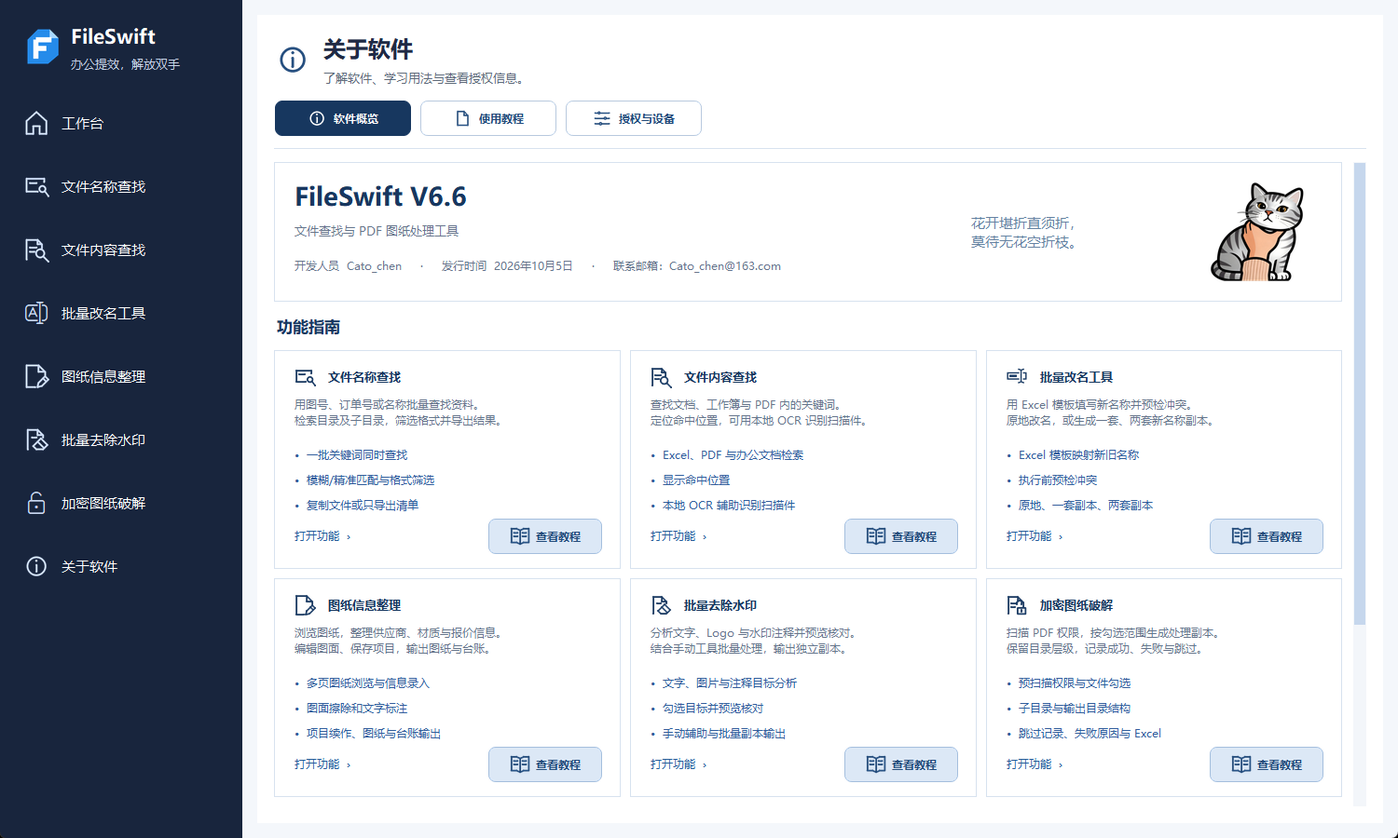
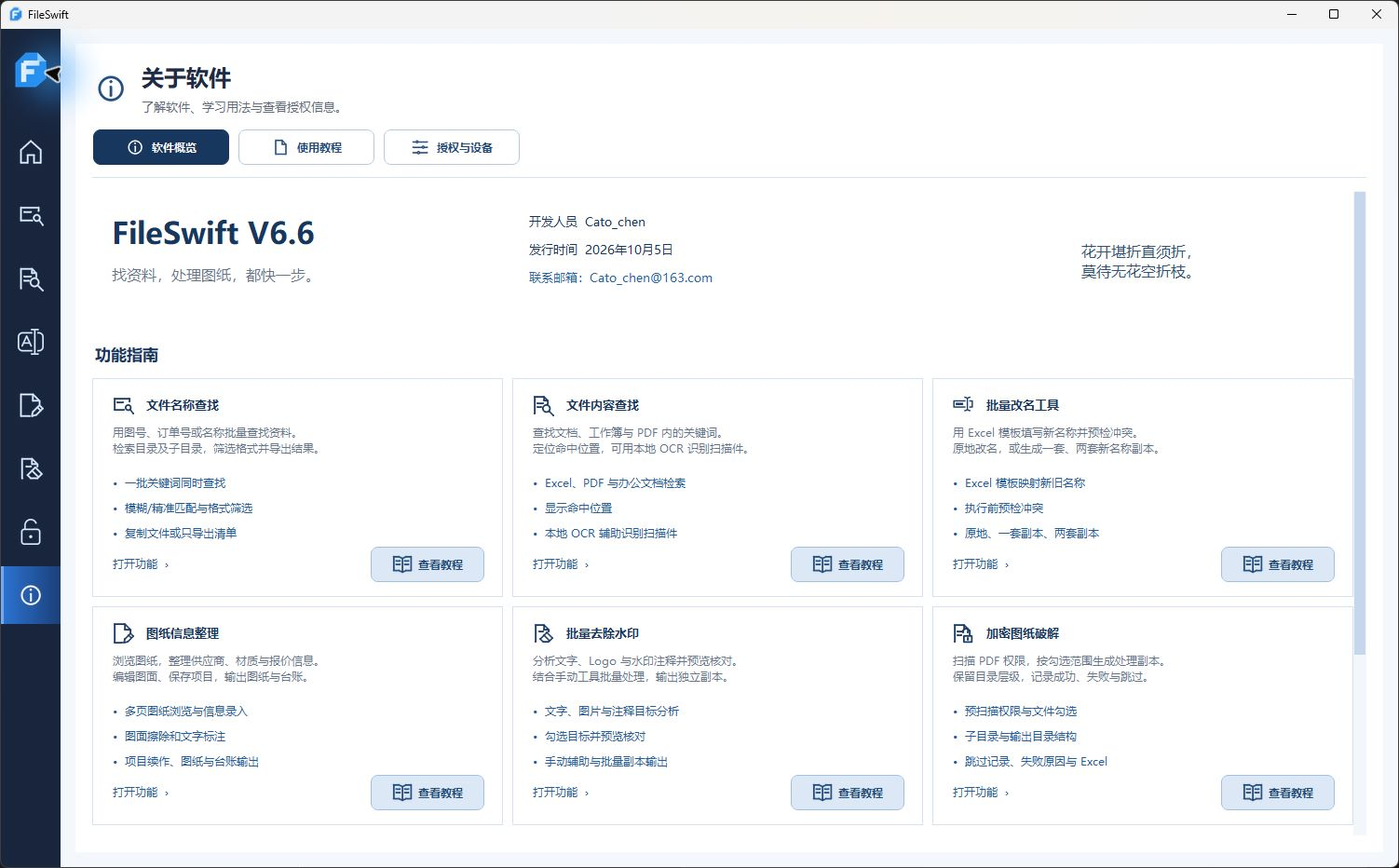
更新真实功能介绍与六模块实拍，统一下载入口

diff --git a/index.html b/index.html
@@ -11,36 +11,34 @@
 <main>
 <section class="hero container">
   <div class="hero-copy"><p class="eyebrow"><span class="mini-line"></span> 为工程图纸与日常资料而生</p><h1>找资料，<br>处理图纸。<br><span>都快一步。</span></h1><p class="hero-description">把反复查找、逐个改名和图纸整理，<br class="desktop-break">交给一个顺手的 Windows 桌面工具。</p><div class="hero-actions"><a class="button primary" href="#download"><span data-icon="download"></span><span data-download-cta>获取 FileSwift</span></a><a class="button secondary" href="#benefits">了解核心能力</a></div><p class="hero-note">Windows 桌面应用 · 文件在本机处理</p></div>
-  <div class="hero-visual"><div class="visual-caption"><span class="app-mark"><img src="assets/brand.png" width="24" height="24" alt=""> FileSwift 工作台</span><span>6 个功能，一处完成</span></div><a class="shot-link" href="assets/overview.png" data-image-preview aria-label="放大查看 FileSwift 工作台"><img class="product-shot" src="assets/overview.png" width="1500" height="900" alt="FileSwift 实际软件界面，包含文件查找、改名和图纸处理六项功能" fetchpriority="high"></a><div class="visual-footer"><span>从散落的资料，到有序的工作。</span><span class="shot-hint">点击截图放大查看 ↗</span></div></div>
+  <div class="hero-visual"><div class="visual-caption"><span class="app-mark"><img src="assets/brand.png" width="24" height="24" alt=""> FileSwift 软件概览</span><span>6 个功能，一处完成</span></div><a class="shot-link" href="assets/overview.png" data-image-preview aria-label="放大查看 FileSwift 软件概览"><img class="product-shot" src="assets/overview.png" width="1502" height="932" alt="FileSwift 实际软件界面，包含文件查找、改名和图纸处理六项功能" fetchpriority="high"></a><div class="visual-footer"><span>从散落的资料，到有序的工作。</span><span class="shot-hint">点击截图放大查看 ↗</span></div></div>
 <div class="use-cases"><p>为这些日常工作，少一点重复。</p><div><span>工程图纸</span><span>订单与料号</span><span>项目资料</span><span>办公文档</span></div></div>
 </section>
-<section class="benefits container page-section" id="benefits"><div class="section-heading"><p class="eyebrow">01 / 核心能力</p><h2>资料找得快，图纸处理得顺。</h2><p>从找到文件，到整理结果。<br>常用步骤，一气呵成。</p></div>
-  <div class="showcase"><div class="showcase-content"><div class="tabs" role="tablist" aria-label="核心能力"><button role="tab" id="tab-find" aria-selected="true" aria-controls="panel-find" tabindex="0">01 / 快速找资料</button><button role="tab" id="tab-process" aria-selected="false" aria-controls="panel-process" tabindex="-1">02 / 批量处理图纸</button></div>
-  <div id="panel-find" class="benefit-panel" role="tabpanel" aria-labelledby="tab-find"><h3>记得一个关键词，<br>就能开始找。</h3><p>用名称批量查资料，或直接检索文档内容。关键词、子目录和格式筛选，让查找更有方向。</p><ul class="check-list"><li>多个关键词一起查，减少重复操作</li><li>支持 Excel、PDF 与办公文档内容检索</li><li>本地 OCR 辅助识别扫描件</li><li>复制匹配文件，或导出 Excel 结果清单</li></ul></div>
-  <div id="panel-process" class="benefit-panel" role="tabpanel" aria-labelledby="tab-process" hidden><h3>把重复的图纸操作，<br>集中做完。</h3><p>改名称、整理信息、处理水印与 PDF 权限，各有清晰的工作界面。处理前先检查，处理后有结果可核对。</p><ul class="check-list"><li>Excel 名称映射，批量改名并预检冲突</li><li>浏览图纸，录入材质、供应商与报价信息</li><li>分析文字、图片和注释水印，预览核对</li><li>扫描 PDF 权限，勾选文件生成处理副本</li></ul></div>
-  </div><div class="detail-shot"><div class="detail-title"><span id="shot-label">文件名称查找</span><span>实际软件界面</span></div><div class="detail-viewport" tabindex="0" role="region" aria-label="软件截图，可滚动查看"><a class="shot-link" id="detail-preview" href="assets/filename.png" data-image-preview aria-label="放大查看文件名称查找界面"><img id="detail-image" src="assets/filename.png" width="940" height="950" alt="文件名称查找界面，支持关键词与格式筛选" loading="lazy"></a></div><p class="detail-hint">可滚动浏览，点击截图放大查看 <span id="shot-status" role="status" aria-live="polite"></span></p></div></div>
+<section class="benefits container page-section" id="benefits"><div class="section-heading"><p class="eyebrow">01 / 核心能力</p><h2>资料找得快，图纸处理得顺。</h2><p>从找到文件，到整理结果。<br>六个模块，按你的任务切换。</p></div>
+  <div class="gallery-tabs tabs" role="tablist" aria-label="查看六个功能模块"><button role="tab" id="tab-find" aria-selected="true" aria-controls="panel-find" tabindex="0">名称查找</button><button role="tab" id="tab-content" aria-selected="false" aria-controls="panel-content" tabindex="-1">内容查找</button><button role="tab" id="tab-rename" aria-selected="false" aria-controls="panel-rename" tabindex="-1">批量改名</button><button role="tab" id="tab-drawing" aria-selected="false" aria-controls="panel-drawing" tabindex="-1">图纸整理</button><button role="tab" id="tab-watermark" aria-selected="false" aria-controls="panel-watermark" tabindex="-1">水印处理</button><button role="tab" id="tab-pdf" aria-selected="false" aria-controls="panel-pdf" tabindex="-1">PDF 权限</button></div>
+  <div class="showcase"><div class="showcase-content"><div id="panel-find" class="benefit-panel" role="tabpanel" aria-labelledby="tab-find"><h3>按清单找文件，<br>不必一个个搜。</h3><p>把图号、料号或关键词一次贴入。按名称匹配整个目录，再把找到的资料和结果清单带走。</p><ul class="check-list"><li>模糊或精准匹配，可筛选文件格式</li><li>递归查找子目录，统计每个关键词的结果</li><li>复制匹配文件，或仅导出 Excel 清单</li></ul></div><div id="panel-content" class="benefit-panel" role="tabpanel" aria-labelledby="tab-content" hidden><h3>名字想不起来，<br>就从内容里找。</h3><p>在 Excel、PDF 和办公文档中查关键词。结果记录命中位置，回到原文核对更方便。</p><ul class="check-list"><li>记录工作表、单元格或 PDF 页码</li><li>本地 OCR 辅助检索扫描件，需配置组件</li><li>导出查找结果，可同时复制命中文件</li></ul></div><div id="panel-rename" class="benefit-panel" role="tabpanel" aria-labelledby="tab-rename" hidden><h3>名称按表对应，<br>改之前先检查。</h3><p>用 Excel 管理原名称与新名称的对应关系。执行前检查命名冲突，按工作需要选择输出方式。</p><ul class="check-list"><li>导出命名模板，集中填写新名称</li><li>原地改名，或保留原件生成一套、两套副本</li><li>预检结果在界面中逐项核对</li></ul></div><div id="panel-drawing" class="benefit-panel" role="tabpanel" aria-labelledby="tab-drawing" hidden><h3>看图、填信息，<br>再统一输出。</h3><p>逐张浏览 PDF 图纸，整理供应商、材质与报价。新增批量插入文本，让一批图纸在同一位置填入各自的内容。</p><ul class="check-list"><li>粘贴一列或导入 Excel，先检查文字能否放下</li><li>文字标注、擦除与旋转，配合图纸信息录入</li><li>保存项目继续整理，输出 PDF 和 Excel 台账</li></ul></div><div id="panel-watermark" class="benefit-panel" role="tabpanel" aria-labelledby="tab-watermark" hidden><h3>先确认目标，<br>再处理这一批。</h3><p>分析 PDF 中的文字、图片与注释等候选目标。结合预览和手动辅助，确认需要处理的内容。</p><ul class="check-list"><li>查看当前图纸及全局候选目标</li><li>支持区域与文字辅助，预览核对后再输出</li><li>生成独立副本；扫描图中重叠线条无法还原</li></ul></div><div id="panel-pdf" class="benefit-panel" role="tabpanel" aria-labelledby="tab-pdf" hidden><h3>先看限制情况，<br>再选择要处理的文件。</h3><p>扫描可打开 PDF 的权限状态，区分受限、无需处理与检测失败的文件，再勾选处理。</p><ul class="check-list"><li>包含子目录，可保留原目录层级</li><li>跳过已处理文件，记录每项处理结果</li><li>输出独立副本，不破解未知的打开密码</li></ul></div><div class="gallery-controls"><button id="shot-prev" type="button" aria-label="上一个功能">←</button><span id="shot-count" aria-live="polite">01 / 06</span><button id="shot-next" type="button" aria-label="下一个功能">→</button><span class="gallery-tip">按需切换，慢慢看</span></div></div><div class="detail-shot"><div class="detail-title"><span id="shot-label">文件名称查找</span><span>实际软件界面</span></div><div class="detail-viewport" role="region" aria-label="软件实拍截图"><a class="shot-link" id="detail-preview" href="assets/filename.png" data-image-preview aria-label="放大查看文件名称查找界面"><img id="detail-image" src="assets/filename.png" width="1502" height="932" alt="收起左侧栏的文件名称查找界面" loading="lazy"></a></div><p class="detail-hint">点击截图，放大查看细节 <span id="shot-status" role="status" aria-live="polite"></span></p></div></div>
 </section>
 <section class="features-wrap page-section" id="features"><div class="container"><div class="section-heading compact"><p class="eyebrow">02 / 功能一览</p><h2>六件事，一套工作方式。</h2></div><div class="feature-grid">
-<article class="feature"><div class="feature-top"><span class="feature-icon" data-icon="search"></span><span class="feature-number">01</span></div><h3>文件名称查找</h3><p>按图号、料号与关键词批量查找，支持模糊匹配、格式筛选及结果导出。</p><span class="feature-tag">批量关键词 · 文件复制 · Excel 清单</span></article>
+<article class="feature"><div class="feature-top"><span class="feature-icon" data-icon="search"></span><span class="feature-number">01</span></div><h3>文件名称查找</h3><p>一次输入多个图号或料号，查找子目录、筛选格式，并统计每个关键词的结果。</p><span class="feature-tag">批量关键词 · 文件复制 · Excel 清单</span></article>
 <article class="feature"><div class="feature-top"><span class="feature-icon" data-icon="content"></span><span class="feature-number">02</span></div><h3>文件内容查找</h3><p>检索文档关键词并定位命中位置，用本地 OCR 辅助识别扫描件。</p><span class="feature-tag">内容检索 · 命中定位 · 本地 OCR</span></article>
 <article class="feature"><div class="feature-top"><span class="feature-icon" data-icon="rename"></span><span class="feature-number">03</span></div><h3>批量改名工具</h3><p>Excel 映射名称并预检冲突，支持原地改名或一套、两套副本。</p><span class="feature-tag">Excel 映射 · 冲突预检 · 副本输出</span></article>
-<article class="feature"><div class="feature-top"><span class="feature-icon" data-icon="drawing"></span><span class="feature-number">04</span></div><h3>图纸信息整理</h3><p>浏览、标注图纸，整理供应商、材质与报价，保存项目并导出台账。</p><span class="feature-tag">图纸浏览 · 信息录入 · 项目保存</span></article>
-<article class="feature"><div class="feature-top"><span class="feature-icon" data-icon="watermark"></span><span class="feature-number">05</span></div><h3>批量去除水印</h3><p>分析文字、Logo 与注释水印，预览核对后批量输出独立副本。</p><span class="feature-tag">目标分析 · 预览核对 · 手动辅助</span></article>
-<article class="feature"><div class="feature-top"><span class="feature-icon" data-icon="unlock"></span><span class="feature-number">06</span></div><h3>加密图纸处理</h3><p>扫描 PDF 权限并勾选处理，保留目录结构，记录处理结果。</p><span class="feature-tag">权限扫描 · 勾选处理 · 结果记录</span></article>
-</div><div class="workflow-strip"><span><b>01</b>选择文件</span><span><b>02</b>检查选项</span><span><b>03</b>处理并核对结果</span><p>清晰的步骤，顺手的操作。</p></div></div></section>
+<article class="feature"><div class="feature-top"><span class="feature-icon" data-icon="drawing"></span><span class="feature-number">04</span></div><h3>图纸信息整理</h3><p>浏览、标注并整理供应商、材质与报价；按表给整批图纸插入不同文字，保存项目续做。</p><span class="feature-tag">批量文本 · 信息台账 · 项目续做</span></article>
+<article class="feature"><div class="feature-top"><span class="feature-icon" data-icon="watermark"></span><span class="feature-number">05</span></div><h3>批量去除水印</h3><p>分析文字、图片与注释等候选目标，结合手动辅助，预览确认后输出副本。</p><span class="feature-tag">目标分析 · 预览核对 · 手动辅助</span></article>
+<article class="feature"><div class="feature-top"><span class="feature-icon" data-icon="unlock"></span><span class="feature-number">06</span></div><h3>PDF 权限处理</h3><p>扫描可打开 PDF 的权限限制，勾选处理、保留目录结构，并记录成功或失败原因。</p><span class="feature-tag">权限扫描 · 勾选处理 · 结果记录</span></article>
+</div><div class="workflow-strip"><span><b>01</b>拖入文件或压缩包</span><span><b>02</b>查看推荐功能</span><span><b>03</b>检查并输出</span><p>桌面悬浮入口随手调用 · 历史记录方便接着做</p></div></div></section>
 <section class="download-section page-section" id="download"><div class="container">
 <div class="section-heading compact"><p class="eyebrow" id="download-eyebrow">03 / 获取软件</p><h2>少一点重复，多一点从容。</h2><p>把 FileSwift 放进你的工作流程。</p></div>
 <div class="download-layout"><div class="download-card">
 <div class="download-brand"><img src="assets/brand.png" width="62" height="62" alt="FileSwift 标志"><div><h3>FileSwift</h3><p>V6.6 · Windows 桌面版</p></div></div>
 <p class="download-description">找文件、改名称、整理图纸。<br>让日常资料处理，变得更顺手。</p>
-<button class="button light download-button" id="download-button" type="button"><span data-icon="download"></span><span id="download-label">联系开发者获取软件</span></button>
+<a class="button light download-button" id="download-button" href="#download"><span data-icon="download"></span><span id="download-label">联系开发者获取软件</span></a>
 <p class="download-meta" id="download-meta">在线下载暂未开放 · 可联系开发者咨询</p>
-<div class="share-code" id="share-code" hidden><span>网盘提取码：<strong id="share-code-value"></strong></span><button id="copy-share-code" type="button">复制提取码</button><span id="share-code-status" role="status" aria-live="polite"></span></div>
 <div class="download-contact"><span>联系开发者</span><button class="email-copy" id="copy-email" type="button" aria-label="复制联系邮箱">Cato_chen@163.com <span>复制</span></button><p id="copy-status" role="status" aria-live="polite"></p></div></div>
 <div class="download-faq"><h3>你可能关心</h3><div class="questions">
 <details open><summary>适合哪些工作？</summary><p>工程图纸、订单料号、项目目录与办公资料。按清单批量找文件、改名称、整理 PDF，都可以在一个工具中完成。</p></details>
 <details><summary>文件需要上传吗？</summary><p>文件查找、图纸处理和本地 OCR 在电脑上完成。扫描件检索前，请确认本地 OCR 组件可用。</p></details>
 <details><summary>会修改原文件吗？</summary><p>原地改名会修改文件名；副本输出可保留原文件。PDF 权限处理输出独立副本。执行前可在界面确认输出方式。</p></details>
+<details><summary>PDF 和扫描件都能处理吗？</summary><p>PDF 权限处理针对可打开的文件，不破解未知打开密码。水印效果取决于文件结构，扫描图中与水印重叠的原始线条无法还原。扫描件内容查找需配置本地 OCR。</p></details>
 <details><summary>如何联系开发者？</summary><p>软件使用、授权与反馈，可发送邮件至 <a href="mailto:Cato_chen@163.com">Cato_chen@163.com</a>。</p></details>
 </div></div></div>
 <footer><a class="brand" href="#"><img src="assets/brand.png" width="28" height="28" alt=""><span>FileSwift</span></a><p>办公提效，解放双手。</p><span>由 Cato_chen 开发</span></footer>
@@ -48,4 +46,3 @@
 <dialog id="download-dialog" aria-labelledby="download-dialog-title"><button type="button" class="dialog-close" aria-label="关闭下载提示">×</button><img src="assets/brand.png" width="52" height="52" alt=""><h2 id="download-dialog-title">下载暂未开放</h2><p>下载开放后，可以在这里直接获取 Windows 版 FileSwift。</p><a class="button primary" href="mailto:Cato_chen@163.com?subject=FileSwift%20%E8%BD%AF%E4%BB%B6%E5%92%A8%E8%AF%A2">联系开发者</a><button type="button" class="dialog-dismiss">知道了</button></dialog>
 <dialog id="image-dialog" aria-labelledby="image-dialog-title"><div class="image-toolbar"><h2 id="image-dialog-title">软件界面</h2><button id="image-zoom" type="button" aria-pressed="false">原始尺寸</button><a id="image-original" href="assets/overview.png" target="_blank" rel="noopener">打开原图 ↗</a><button type="button" class="image-close" aria-label="关闭图片预览">×</button></div><div class="image-scroll"><img id="preview-image" alt=""></div><p class="image-help">原始尺寸模式可滚动查看细节 · 按 Esc 关闭</p></dialog>
 <script src="download-config.js"></script><script src="app.js"></script></body></html>
-

diff --git a/app.js b/app.js
@@ -7,8 +7,12 @@ function play(element,className){
   element.classList.add(className);
 }
 const screenshots=[
-  {src:'assets/filename.png',width:940,height:950,label:'文件名称查找',alt:'文件名称查找界面，支持关键词与格式筛选'},
-  {src:'assets/pdf.png',width:1220,height:795,label:'加密图纸处理',alt:'PDF 权限处理界面，显示文件统计与待处理文件清单'}
+  {src:'assets/filename.png',width:1502,height:932,label:'文件名称查找',alt:'收起左侧栏的文件名称查找实际界面'},
+  {src:'assets/content.png',width:1502,height:932,label:'文件内容查找',alt:'收起左侧栏的文件内容查找实际界面'},
+  {src:'assets/rename.png',width:1502,height:932,label:'批量改名工具',alt:'收起左侧栏的批量改名工具实际界面'},
+  {src:'assets/drawing.png',width:1502,height:932,label:'图纸信息整理',alt:'收起左侧栏的图纸信息整理实际界面，使用演示图纸'},
+  {src:'assets/watermark.png',width:1502,height:932,label:'批量去除水印',alt:'收起左侧栏的批量去除水印实际界面，使用演示图纸'},
+  {src:'assets/pdf.png',width:1502,height:932,label:'PDF 权限处理',alt:'收起左侧栏的PDF 权限处理实际界面'}
 ];
 const screenshotLoads=new Map();
 let selectedTab=0;
@@ -21,8 +25,9 @@ function loadScreenshot(index){
   return screenshotLoads.get(index);
 }
 async function selectTab(index){
-  if(index===selectedTab)return;
+  if(index===selectedTab&&!document.getElementById('shot-status').textContent)return;
   selectedTab=index;
+  document.getElementById('shot-count').textContent=`${String(index+1).padStart(2,'0')} / 06`;
   tabs.forEach((tab,i)=>{tab.setAttribute('aria-selected',String(i===index));tab.tabIndex=i===index?0:-1;document.getElementById(tab.getAttribute('aria-controls')).hidden=i!==index;});
   play(document.getElementById(tabs[index].getAttribute('aria-controls')),'tab-enter');
   const image=document.getElementById('detail-image');
@@ -46,6 +51,9 @@ async function selectTab(index){
 tabs.forEach((tab,index)=>{tab.addEventListener('click',()=>selectTab(index));tab.addEventListener('keydown',event=>{if(['ArrowLeft','ArrowRight','Home','End'].includes(event.key)){event.preventDefault();const next=event.key==='Home'?0:event.key==='End'?tabs.length-1:(index+(event.key==='ArrowRight'?1:-1)+tabs.length)%tabs.length;selectTab(next);tabs[next].focus();}});});
 tabs.forEach((tab,index)=>{['pointerenter','focus'].forEach(type=>tab.addEventListener(type,()=>{loadScreenshot(index).catch(()=>{});}));});
 
+document.getElementById('shot-prev').addEventListener('click',()=>selectTab((selectedTab+tabs.length-1)%tabs.length));
+document.getElementById('shot-next').addEventListener('click',()=>selectTab((selectedTab+1)%tabs.length));
+
 const imageDialog=document.getElementById('image-dialog');
 const previewImage=document.getElementById('preview-image');
 const zoomButton=document.getElementById('image-zoom');
@@ -54,7 +62,7 @@ document.querySelectorAll('[data-image-preview]').forEach(link=>link.addEventLis
   event.preventDefault();
   const source=link.querySelector('img');
   previewImage.src=source.src;previewImage.alt=source.alt;previewImage.width=source.width;previewImage.height=source.height;
-  document.getElementById('image-dialog-title').textContent=source.id==='detail-image'?document.getElementById('shot-label').textContent:'FileSwift 工作台';
+  document.getElementById('image-dialog-title').textContent=source.id==='detail-image'?document.getElementById('shot-label').textContent:'FileSwift 软件概览';
   document.getElementById('image-original').href=link.href;
   imageDialog.classList.remove('original-size');zoomButton.setAttribute('aria-pressed','false');zoomButton.textContent='原始尺寸';
   imageDialog.showModal();
@@ -90,26 +98,16 @@ if(downloadUrl){
   document.querySelectorAll('[data-download-cta]').forEach(element=>element.textContent='下载 FileSwift');
   document.querySelector('.header nav a[href="#download"]').textContent='下载软件';
   document.getElementById('download-eyebrow').textContent='03 / 下载软件';
-  const share=downloadConfig.mode==='share';
-  document.getElementById('download-label').textContent=share?'前往百度网盘下载':'下载 Windows 版';
-  document.getElementById('download-meta').textContent=share?'Windows 桌面版 · 将在新标签页打开百度网盘':'Windows 应用 · 本地文件处理';
-  if(share&&downloadConfig.extractionCode){
-    document.getElementById('share-code').hidden=false;
-    document.getElementById('share-code-value').textContent=downloadConfig.extractionCode;
-  }
+  document.getElementById('download-label').textContent='下载 Windows 版';
+  document.getElementById('download-meta').textContent='Windows 桌面应用 · 文件在本机处理';
+  const button=document.getElementById('download-button');
+  button.href=downloadUrl.href;
+  if(downloadConfig.mode==='direct')button.download=downloadConfig.filename||'FileSwift_V6_6.exe';
+  else {button.target='_blank';button.rel='noopener noreferrer';}
 }
-document.getElementById('copy-share-code').addEventListener('click',async()=>{
-  const status=document.getElementById('share-code-status');
-  try{await navigator.clipboard.writeText(downloadConfig.extractionCode||'');status.textContent='提取码已复制';}
-  catch{status.textContent='请手动复制上方提取码';}
-});
-document.getElementById('download-button').addEventListener('click',()=>{
-  if(downloadUrl){
-    const link=document.createElement('a');link.href=downloadUrl.href;link.rel='noopener noreferrer';
-    if(downloadConfig.mode==='share')link.target='_blank';
-    else link.download=downloadConfig.filename||'FileSwift_V6_6.exe';
-    document.body.append(link);link.click();link.remove();return;
-  }
+document.getElementById('download-button').addEventListener('click',event=>{
+  if(downloadUrl)return;
+  event.preventDefault();
   downloadDialog.showModal();
 });
 downloadDialog.querySelectorAll('.dialog-close,.dialog-dismiss').forEach(button=>button.addEventListener('click',()=>downloadDialog.close()));
@@ -142,4 +140,3 @@ function updateScroll(){
 }
 addEventListener('scroll',()=>{if(!scrollPending){scrollPending=true;requestAnimationFrame(updateScroll);}},{passive:true});
 addEventListener('resize',updateScroll);updateScroll();
-

diff --git a/style.css b/style.css
@@ -88,10 +88,6 @@ h1 span { color:var(--blue); }
 .download-description { font-size:17px; line-height:1.85; color:#d0dff0; margin:24px 0; }
 .download-button { width:100%; border:0; }
 .download-meta { font-size:12px; color:#b4c8e0; text-align:center; margin:13px 0 23px; }
-.share-code { display:flex; flex-wrap:wrap; align-items:center; justify-content:center; gap:10px; margin:0 0 20px; font-size:13px; color:#d1deed; }
-.share-code strong { letter-spacing:2px; overflow-wrap:anywhere; }
-.share-code button { border:1px solid #ffffff40; background:transparent; color:#a9d0ff; padding:7px 10px; border-radius:5px; }
-#share-code-status { width:100%; text-align:center; min-height:18px; font-size:12px; }
 .download-contact { border-top:1px solid #ffffff20; padding-top:18px; display:flex; flex-wrap:wrap; justify-content:space-between; align-items:center; gap:4px; }
 .download-contact>span { font-size:12px; color:#aac1db; }
 .email-copy { display:flex; gap:12px; align-items:center; border:0; background:transparent; color:#d1deed; font-size:13px; padding:5px 0; }
@@ -233,3 +229,17 @@ dialog::backdrop { background:#10263fbd; }
  .motion-ready .reveal { opacity:1; }
 }
 
+/* Manual gallery keeps all six screenshots in one section. */
+.gallery-tabs { gap:0; justify-content:space-between; overflow-x:auto; margin-bottom:28px; }
+.gallery-tabs button { flex:0 0 auto; padding:14px 18px; white-space:nowrap; }
+.showcase { grid-template-columns:minmax(0,.65fr) minmax(0,1.35fr); gap:40px; }
+.benefit-panel { min-height:320px; }
+.gallery-controls { display:flex; align-items:center; gap:15px; margin-top:24px; }
+.gallery-controls button { width:42px; height:42px; background:white; border:1px solid var(--line); border-radius:50%; color:var(--blue); font-size:20px; }
+.gallery-controls button:hover { background:#edf4ff; border-color:#90baf5; }
+#shot-count { font:13px Consolas,monospace; color:var(--muted); }
+.gallery-tip { margin-left:3px; color:var(--muted); font-size:12px; }
+.detail-viewport { height:auto; aspect-ratio:1502/932; overflow:hidden; scrollbar-gutter:auto; }
+.detail-viewport img { width:100%; height:auto; }
+@media(max-width:1000px) { .showcase { grid-template-columns:1fr; gap:25px; } .benefit-panel { min-height:0; } .benefit-panel>p { max-width:650px; } }
+@media(max-width:760px) { .gallery-tabs { margin-bottom:24px; justify-content:flex-start; } .gallery-tabs button { padding:13px 16px; } .detail-viewport { height:auto; } .gallery-controls { margin-top:20px; } .benefit-panel { min-height:310px; } }

diff --git a/download-config.js b/download-config.js
@@ -1,10 +1,6 @@
-// GitHub Pages 仅托管网页；安装包放在百度网盘。
-// url 填入真实的 HTTPS 分享链接；有提取码时填入 extractionCode。
-// mode: 'share' 在新标签页打开分享页面；'direct' 用于安装包直链下载。
+// 仅需修改 url 即可更换下载页面。mode: 'page' 打开下载页面，'direct' 用于安装包直链。
 window.FILESWIFT_DOWNLOAD = {
-  mode: 'share',
+  mode: 'page',
   url: 'https://pan.baidu.com/s/16sBFCZqR-UQ7TRKGO1U1wQ?pwd=6k3j',
-  extractionCode: '6k3j',
   filename: 'FileSwift_V6_6.exe'
 };
-
